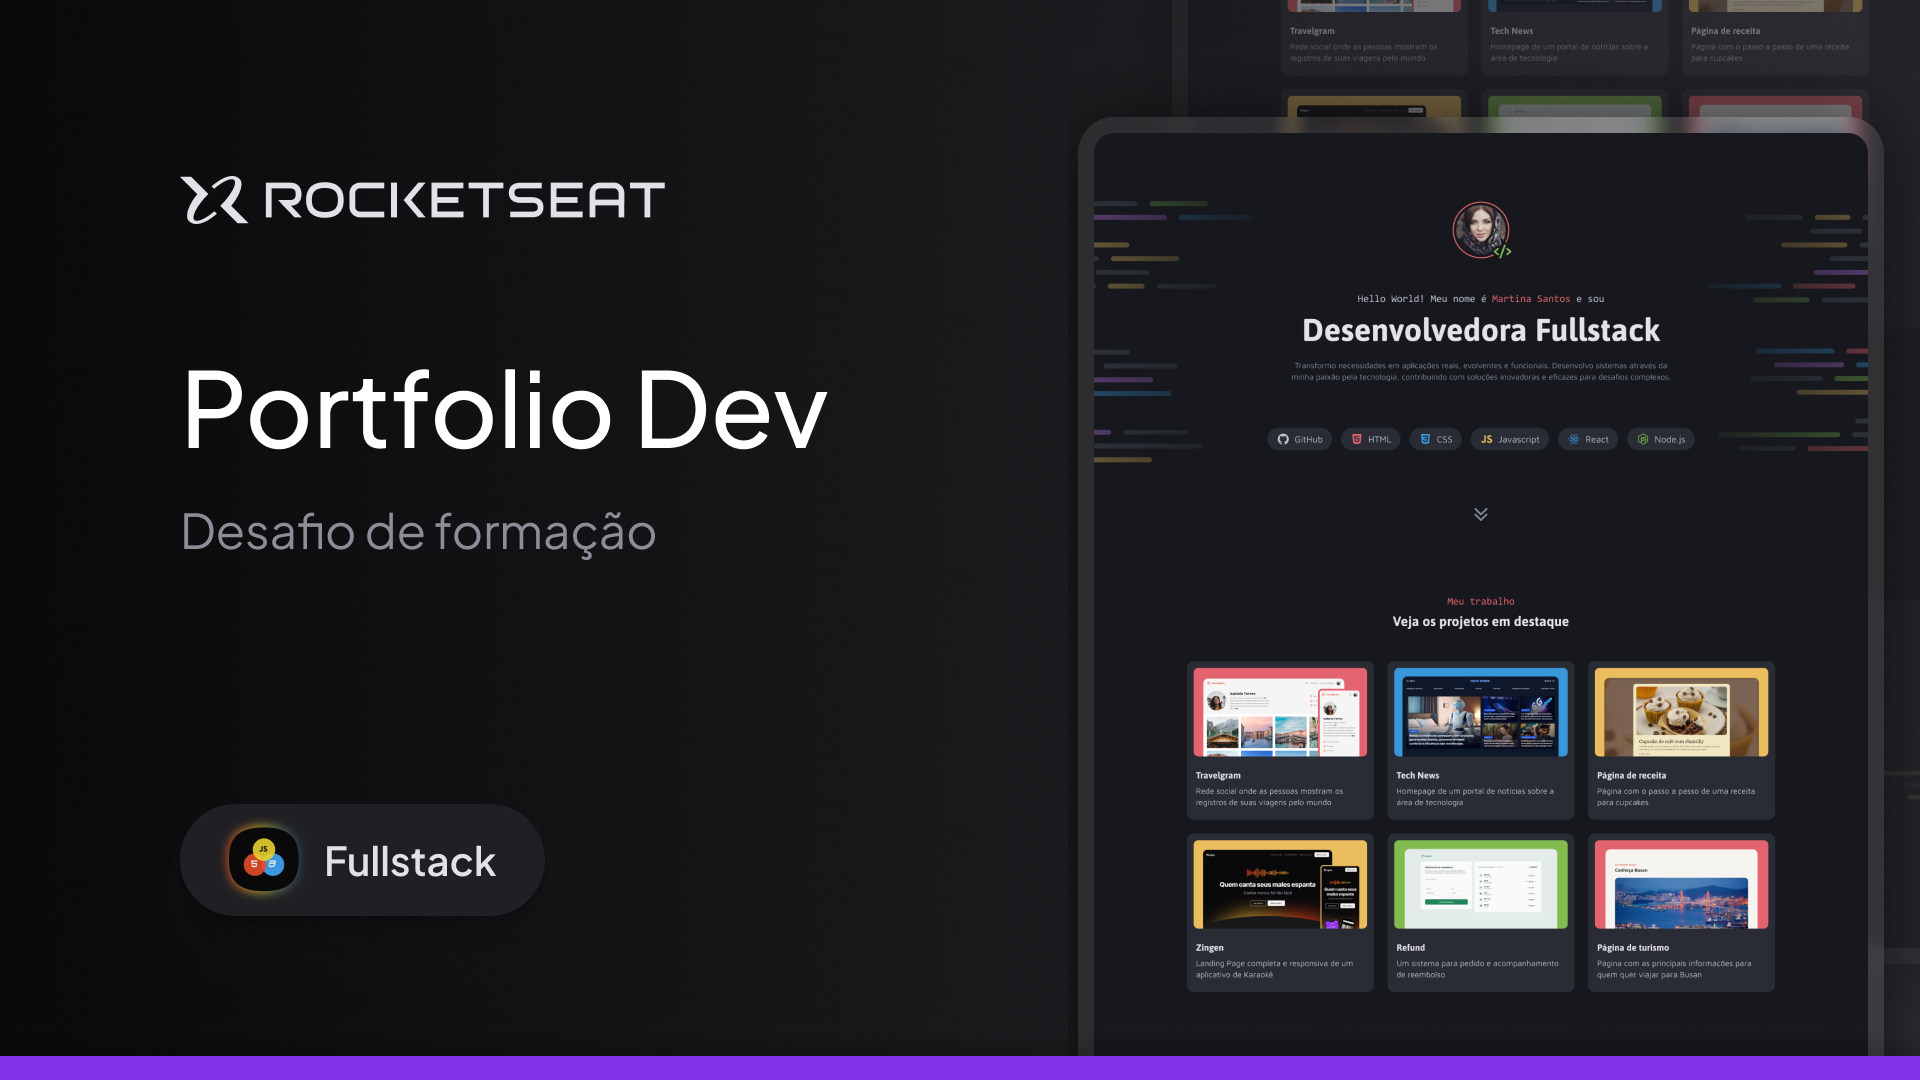
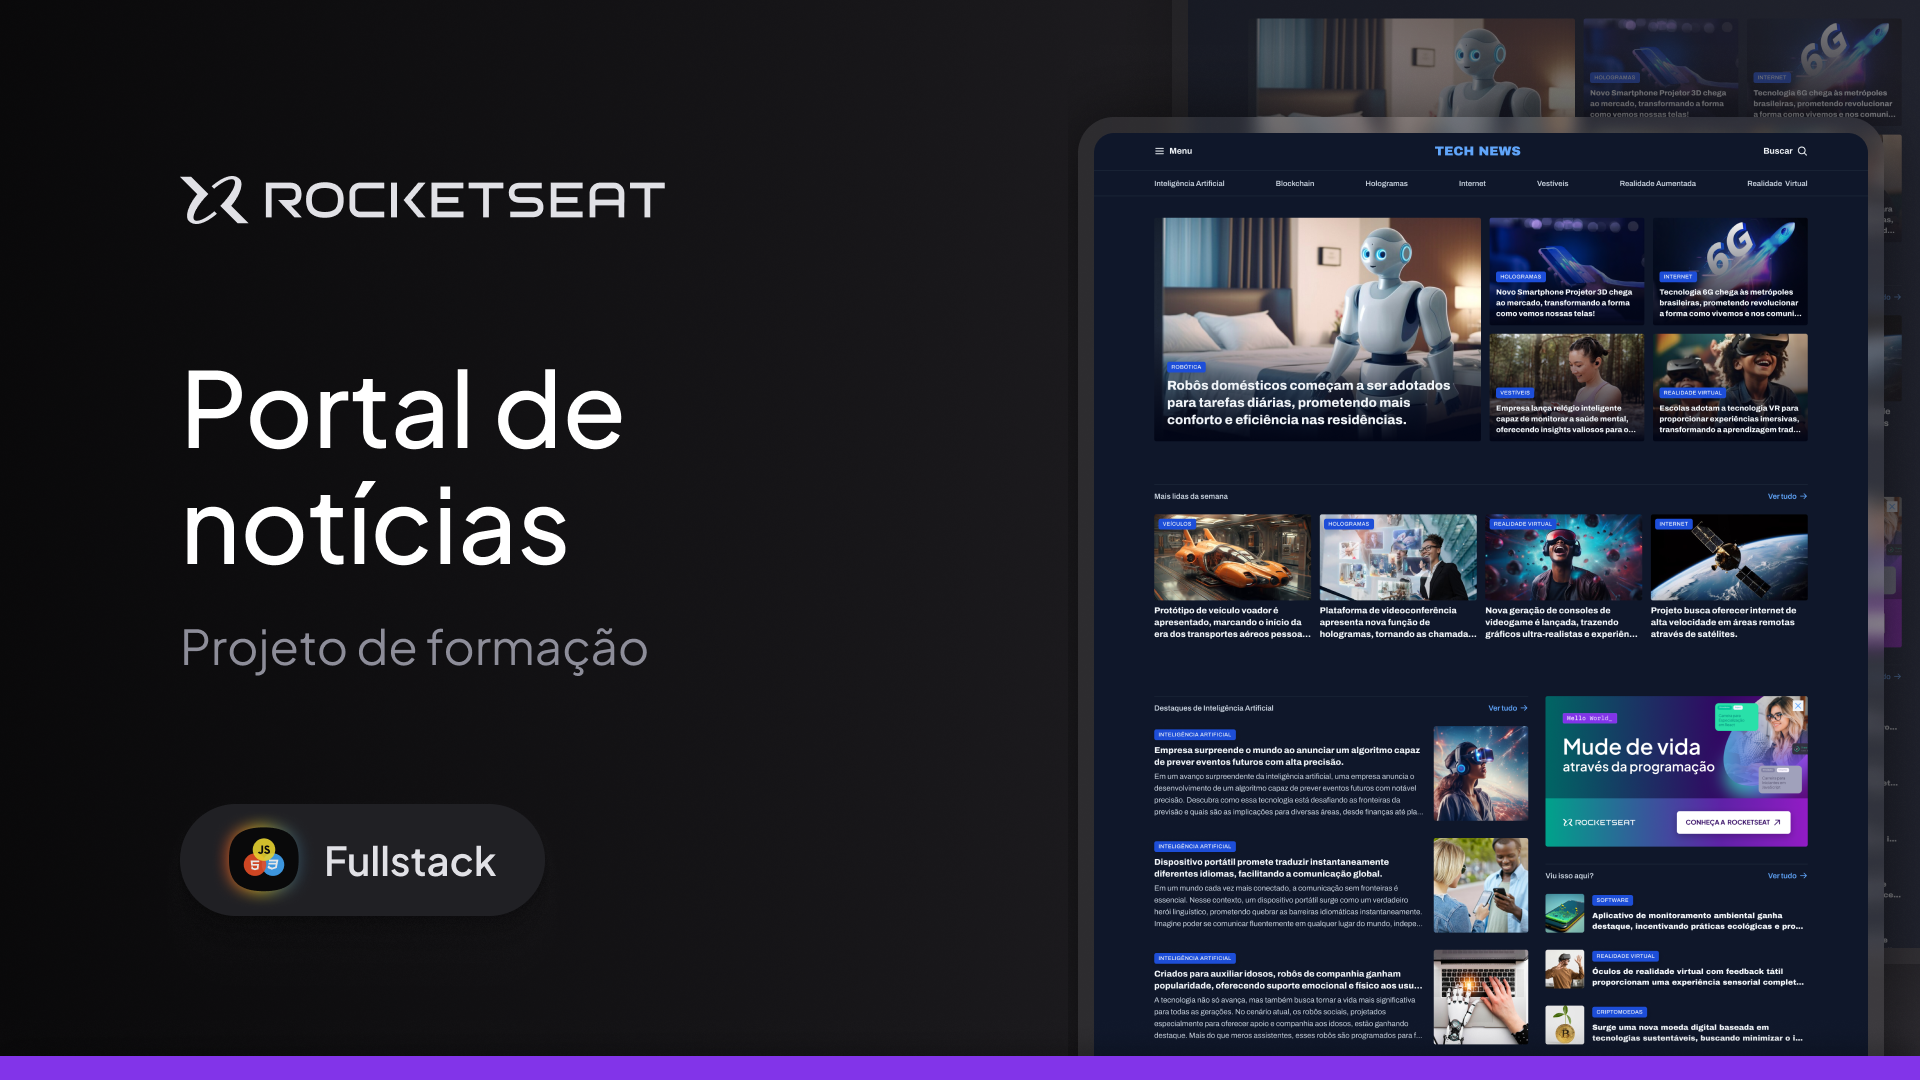
ajuste readme

diff --git a/01 - Trilha Full-stack/04 - portal-de-noticias/README.md b/01 - Trilha Full-stack/04 - portal-de-noticias/README.md
@@ -4,7 +4,7 @@
 
 
 <p align="center">
-Projeto de uma landing page de portfólio dev, desenvolvido durante as aulas sobre HTML e CSS.
+Projeto de uma landing page de portal de notícias, desenvolvido durante as aulas sobre HTML e CSS.
 </p>
 
 <p align="center">
@@ -32,5 +32,5 @@ Esse projeto foi desenvolvido com as seguintes tecnologias:
 
 ## Projeto
 
-O projeto é um site desktop de portfólio para desenvolvedores, com links para projetos e contato do profissional. 
-Esse é um dos desafios práticos da formação Fullstack, um dos conteúdos disponíveis para alunos da Rocketseat. 
+Nesse projeto você vai desenvolver a homepage de um portal de notícias sobre tecnologia para ser visualizado em um desktop.
+Esse é um dos projetos desenvolvidos em aula na formação Full-Stack, um de nossos conteúdos de especialização.
